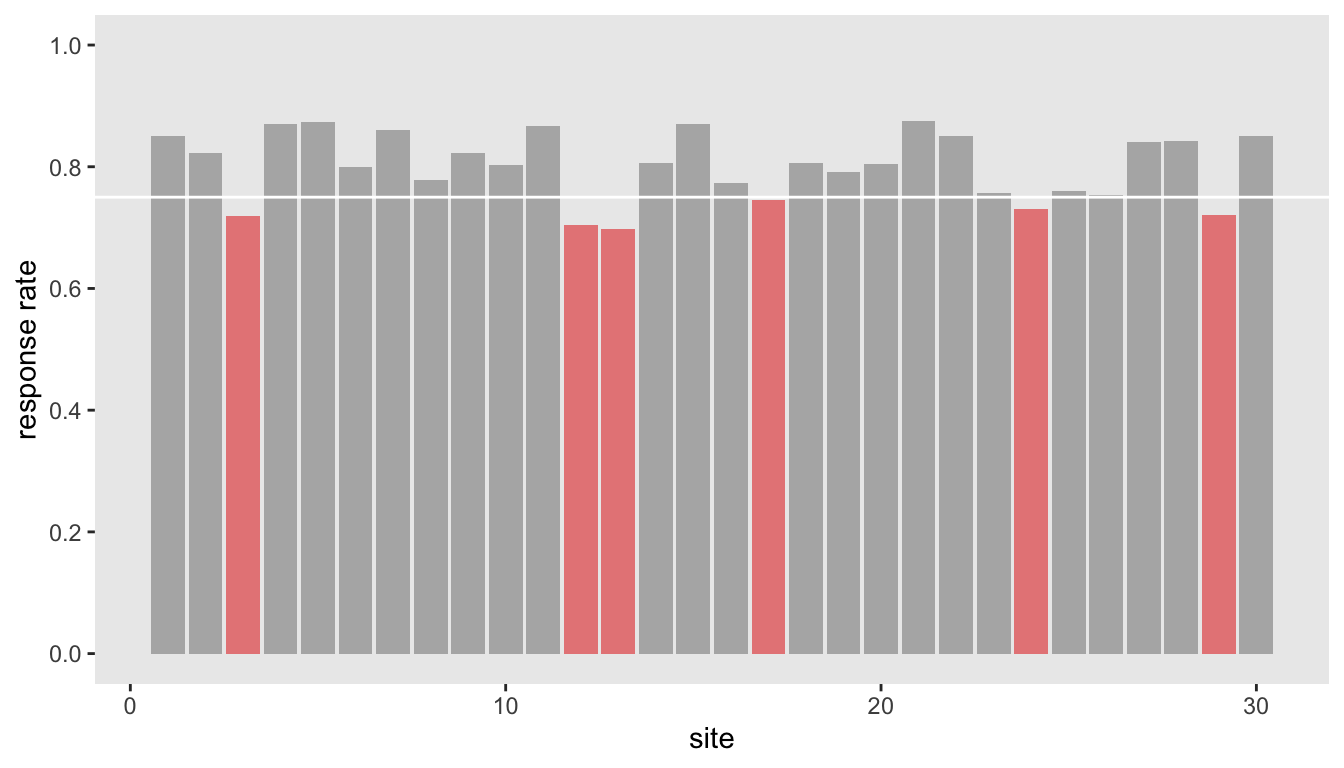
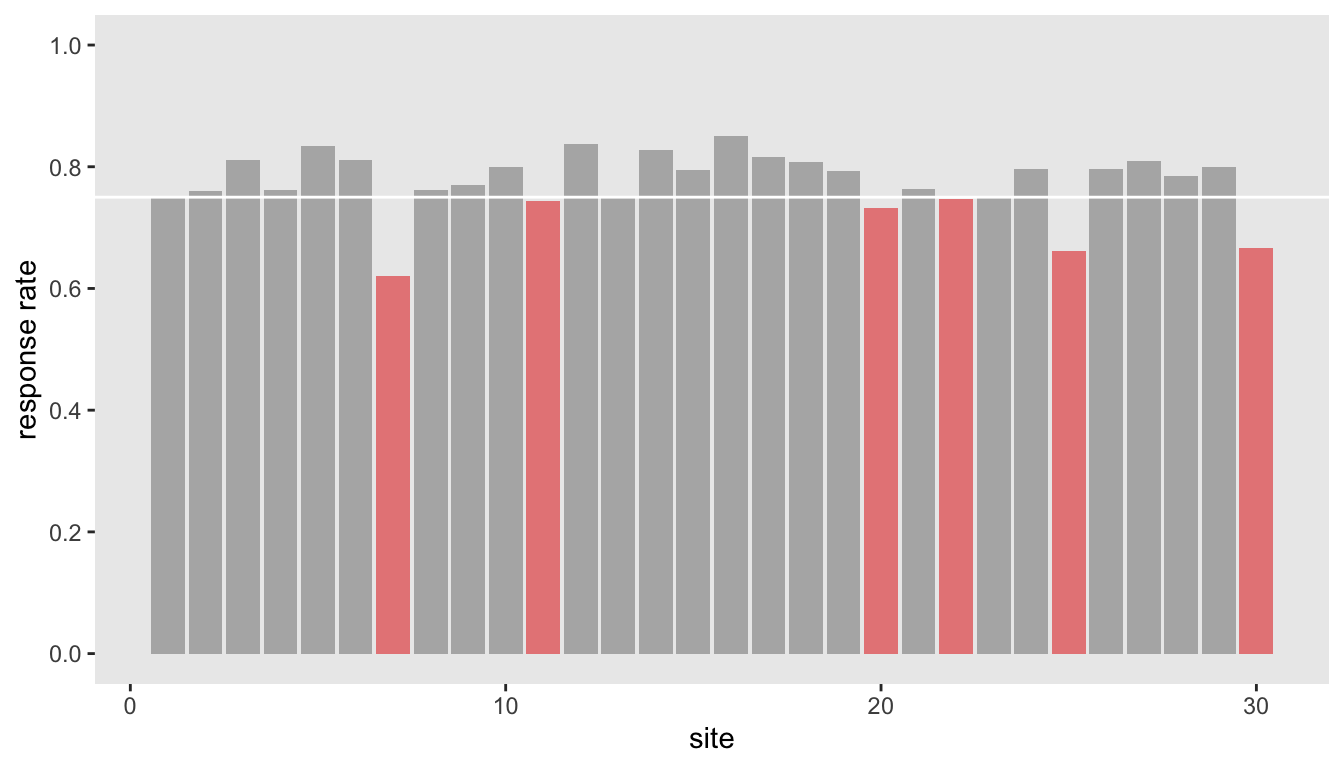
Updating seed

Changed region(s): [[0.625, 0.1562, 0.9688, 0.875], [0.0938, 0.1562, 0.5938, 0.875]]

diff --git a/content/post/2022-01-18-including-uncertainty-when-comparing-response-rates-across-clusters/index.en.html b/content/post/2022-01-18-including-uncertainty-when-comparing-response-rates-across-clusters/index.en.html
@@ -42,12 +42,12 @@ dd &lt;- genData(30, def, id = &quot;site&quot;)</code></pre>
 <pre class="r"><code>fit1 &lt;- glm(cbind(y, n - y) ~ 1, data = dd, family = &quot;binomial&quot;)
 
 tbl_regression(fit1, intercept = TRUE)</code></pre>
-<div id="wzasyxmhfn" style="overflow-x:auto;overflow-y:auto;width:auto;height:auto;">
+<div id="adttiijsio" style="overflow-x:auto;overflow-y:auto;width:auto;height:auto;">
 <style>html {
   font-family: -apple-system, BlinkMacSystemFont, 'Segoe UI', Roboto, Oxygen, Ubuntu, Cantarell, 'Helvetica Neue', 'Fira Sans', 'Droid Sans', Arial, sans-serif;
 }
 
-#wzasyxmhfn .gt_table {
+#adttiijsio .gt_table {
   display: table;
   border-collapse: collapse;
   margin-left: auto;
@@ -72,7 +72,7 @@ tbl_regression(fit1, intercept = TRUE)</code></pre>
   border-left-color: #D3D3D3;
 }
 
-#wzasyxmhfn .gt_heading {
+#adttiijsio .gt_heading {
   background-color: #FFFFFF;
   text-align: center;
   border-bottom-color: #FFFFFF;
@@ -84,7 +84,7 @@ tbl_regression(fit1, intercept = TRUE)</code></pre>
   border-right-color: #D3D3D3;
 }
 
-#wzasyxmhfn .gt_title {
+#adttiijsio .gt_title {
   color: #333333;
   font-size: 125%;
   font-weight: initial;
@@ -94,7 +94,7 @@ tbl_regression(fit1, intercept = TRUE)</code></pre>
   border-bottom-width: 0;
 }
 
-#wzasyxmhfn .gt_subtitle {
+#adttiijsio .gt_subtitle {
   color: #333333;
   font-size: 85%;
   font-weight: initial;
@@ -104,13 +104,13 @@ tbl_regression(fit1, intercept = TRUE)</code></pre>
   border-top-width: 0;
 }
 
-#wzasyxmhfn .gt_bottom_border {
+#adttiijsio .gt_bottom_border {
   border-bottom-style: solid;
   border-bottom-width: 2px;
   border-bottom-color: #D3D3D3;
 }
 
-#wzasyxmhfn .gt_col_headings {
+#adttiijsio .gt_col_headings {
   border-top-style: solid;
   border-top-width: 2px;
   border-top-color: #D3D3D3;
@@ -125,7 +125,7 @@ tbl_regression(fit1, intercept = TRUE)</code></pre>
   border-right-color: #D3D3D3;
 }
 
-#wzasyxmhfn .gt_col_heading {
+#adttiijsio .gt_col_heading {
   color: #333333;
   background-color: #FFFFFF;
   font-size: 100%;
@@ -145,7 +145,7 @@ tbl_regression(fit1, intercept = TRUE)</code></pre>
   overflow-x: hidden;
 }
 
-#wzasyxmhfn .gt_column_spanner_outer {
+#adttiijsio .gt_column_spanner_outer {
   color: #333333;
   background-color: #FFFFFF;
   font-size: 100%;
@@ -157,15 +157,15 @@ tbl_regression(fit1, intercept = TRUE)</code></pre>
   padding-right: 4px;
 }
 
-#wzasyxmhfn .gt_column_spanner_outer:first-child {
+#adttiijsio .gt_column_spanner_outer:first-child {
   padding-left: 0;
 }
 
-#wzasyxmhfn .gt_column_spanner_outer:last-child {
+#adttiijsio .gt_column_spanner_outer:last-child {
   padding-right: 0;
 }
 
-#wzasyxmhfn .gt_column_spanner {
+#adttiijsio .gt_column_spanner {
   border-bottom-style: solid;
   border-bottom-width: 2px;
   border-bottom-color: #D3D3D3;
@@ -177,7 +177,7 @@ tbl_regression(fit1, intercept = TRUE)</code></pre>
   width: 100%;
 }
 
-#wzasyxmhfn .gt_group_heading {
+#adttiijsio .gt_group_heading {
   padding: 8px;
   color: #333333;
   background-color: #FFFFFF;
@@ -199,7 +199,7 @@ tbl_regression(fit1, intercept = TRUE)</code></pre>
   vertical-align: middle;
 }
 
-#wzasyxmhfn .gt_empty_group_heading {
+#adttiijsio .gt_empty_group_heading {
   padding: 0.5px;
   color: #333333;
   background-color: #FFFFFF;
@@ -214,15 +214,15 @@ tbl_regression(fit1, intercept = TRUE)</code></pre>
   vertical-align: middle;
 }
 
-#wzasyxmhfn .gt_from_md > :first-child {
+#adttiijsio .gt_from_md > :first-child {
   margin-top: 0;
 }
 
-#wzasyxmhfn .gt_from_md > :last-child {
+#adttiijsio .gt_from_md > :last-child {
   margin-bottom: 0;
 }
 
-#wzasyxmhfn .gt_row {
+#adttiijsio .gt_row {
   padding-top: 8px;
   padding-bottom: 8px;
   padding-left: 5px;
@@ -241,7 +241,7 @@ tbl_regression(fit1, intercept = TRUE)</code></pre>
   overflow-x: hidden;
 }
 
-#wzasyxmhfn .gt_stub {
+#adttiijsio .gt_stub {
   color: #333333;
   background-color: #FFFFFF;
   font-size: 100%;
@@ -253,7 +253,7 @@ tbl_regression(fit1, intercept = TRUE)</code></pre>
   padding-left: 12px;
 }
 
-#wzasyxmhfn .gt_summary_row {
+#adttiijsio .gt_summary_row {
   color: #333333;
   background-color: #FFFFFF;
   text-transform: inherit;
@@ -263,7 +263,7 @@ tbl_regression(fit1, intercept = TRUE)</code></pre>
   padding-right: 5px;
 }
 
-#wzasyxmhfn .gt_first_summary_row {
+#adttiijsio .gt_first_summary_row {
   padding-top: 8px;
   padding-bottom: 8px;
   padding-left: 5px;
@@ -273,7 +273,7 @@ tbl_regression(fit1, intercept = TRUE)</code></pre>
   border-top-color: #D3D3D3;
 }
 
-#wzasyxmhfn .gt_grand_summary_row {
+#adttiijsio .gt_grand_summary_row {
   color: #333333;
   background-color: #FFFFFF;
   text-transform: inherit;
@@ -283,7 +283,7 @@ tbl_regression(fit1, intercept = TRUE)</code></pre>
   padding-right: 5px;
 }
 
-#wzasyxmhfn .gt_first_grand_summary_row {
+#adttiijsio .gt_first_grand_summary_row {
   padding-top: 8px;
   padding-bottom: 8px;
   padding-left: 5px;
@@ -293,11 +293,11 @@ tbl_regression(fit1, intercept = TRUE)</code></pre>
   border-top-color: #D3D3D3;
 }
 
-#wzasyxmhfn .gt_striped {
+#adttiijsio .gt_striped {
   background-color: rgba(128, 128, 128, 0.05);
 }
 
-#wzasyxmhfn .gt_table_body {
+#adttiijsio .gt_table_body {
   border-top-style: solid;
   border-top-width: 2px;
   border-top-color: #D3D3D3;
@@ -306,7 +306,7 @@ tbl_regression(fit1, intercept = TRUE)</code></pre>
   border-bottom-color: #D3D3D3;
 }
 
-#wzasyxmhfn .gt_footnotes {
+#adttiijsio .gt_footnotes {
   color: #333333;
   background-color: #FFFFFF;
   border-bottom-style: none;
@@ -320,13 +320,13 @@ tbl_regression(fit1, intercept = TRUE)</code></pre>
   border-right-color: #D3D3D3;
 }
 
-#wzasyxmhfn .gt_footnote {
+#adttiijsio .gt_footnote {
   margin: 0px;
   font-size: 90%;
   padding: 4px;
 }
 
-#wzasyxmhfn .gt_sourcenotes {
+#adttiijsio .gt_sourcenotes {
   color: #333333;
   background-color: #FFFFFF;
   border-bottom-style: none;
@@ -340,41 +340,41 @@ tbl_regression(fit1, intercept = TRUE)</code></pre>
   border-right-color: #D3D3D3;
 }
 
-#wzasyxmhfn .gt_sourcenote {
+#adttiijsio .gt_sourcenote {
   font-size: 90%;
   padding: 4px;
 }
 
-#wzasyxmhfn .gt_left {
+#adttiijsio .gt_left {
   text-align: left;
 }
 
-#wzasyxmhfn .gt_center {
+#adttiijsio .gt_center {
   text-align: center;
 }
 
-#wzasyxmhfn .gt_right {
+#adttiijsio .gt_right {
   text-align: right;
   font-variant-numeric: tabular-nums;
 }
 
-#wzasyxmhfn .gt_font_normal {
+#adttiijsio .gt_font_normal {
   font-weight: normal;
 }
 
-#wzasyxmhfn .gt_font_bold {
+#adttiijsio .gt_font_bold {
   font-weight: bold;
 }
 
-#wzasyxmhfn .gt_font_italic {
+#adttiijsio .gt_font_italic {
   font-style: italic;
 }
 
-#wzasyxmhfn .gt_super {
+#adttiijsio .gt_super {
   font-size: 65%;
 }
 
-#wzasyxmhfn .gt_footnote_marks {
+#adttiijsio .gt_footnote_marks {
   font-style: italic;
   font-weight: normal;
   font-size: 65%;
@@ -392,8 +392,8 @@ tbl_regression(fit1, intercept = TRUE)</code></pre>
   </thead>
   <tbody class="gt_table_body">
     <tr><td class="gt_row gt_left">(Intercept)</td>
-<td class="gt_row gt_center">1.4</td>
-<td class="gt_row gt_center">1.3, 1.5</td>
+<td class="gt_row gt_center">1.3</td>
+<td class="gt_row gt_center">1.2, 1.4</td>
 <td class="gt_row gt_center"><0.001</td></tr>
   </tbody>
   
@@ -417,16 +417,16 @@ tbl_regression(fit1, intercept = TRUE)</code></pre>
 <p><span class="math display">\[p = \frac{1}{1 + e^{(-lodds)}}\]</span></p>
 <pre class="r"><code>lOR &lt;- coef(summary(fit1))[1]
 1/(1+exp(-lOR))</code></pre>
-<pre><code>## [1] 0.8</code></pre>
+<pre><code>## [1] 0.78</code></pre>
 <p>And here is a 95% confidence interval for the estimated probability:</p>
 <pre class="r"><code>ci &lt;- data.table(t(confint(fit1)))
 setnames(ci, c(&quot;l95_lo&quot;, &quot;u95_lo&quot;))
 ci[, .(1/(1+exp(-l95_lo)), 1/(1+exp(-u95_lo)))] </code></pre>
-<pre><code>##      V1   V2
-## 1: 0.78 0.82</code></pre>
+<pre><code>##      V1  V2
+## 1: 0.76 0.8</code></pre>
 <p>For completeness, here is the observed probability:</p>
 <pre class="r"><code>with(dd, sum(y)/sum(n))</code></pre>
-<pre><code>## [1] 0.8</code></pre>
+<pre><code>## [1] 0.78</code></pre>
 </div>
 <div id="site-specific-probabilities" class="section level2">
 <h2>Site-specific probabilities</h2>
@@ -507,8 +507,8 @@ fit &lt;- mod$sample(
 )</code></pre>
 <pre><code>## Running MCMC with 4 parallel chains...
 ## 
-## Chain 1 finished in 0.6 seconds.
-## Chain 2 finished in 0.6 seconds.
+## Chain 1 finished in 0.5 seconds.
+## Chain 2 finished in 0.7 seconds.
 ## Chain 3 finished in 0.6 seconds.
 ## Chain 4 finished in 0.6 seconds.
 ## 
@@ -520,11 +520,11 @@ fit &lt;- mod$sample(
 <pre><code>## # A tibble: 5 × 10
 ##   variable   mean median     sd    mad     q5    q95  rhat ess_bulk ess_tail
 ##   &lt;chr&gt;     &lt;dbl&gt;  &lt;dbl&gt;  &lt;dbl&gt;  &lt;dbl&gt;  &lt;dbl&gt;  &lt;dbl&gt; &lt;dbl&gt;    &lt;dbl&gt;    &lt;dbl&gt;
-## 1 alpha    26.2   25.9   5.90   5.84   17.1   36.5    1.00   11589.   11646.
-## 2 beta      6.84   6.74  1.57   1.54    4.42   9.58   1.00   10767.   12191.
-## 3 mu        0.793  0.793 0.0157 0.0155  0.767  0.818  1.00   19683.   17110.
-## 4 theta[1]  0.824  0.827 0.0450 0.0444  0.746  0.893  1.00   28680.   14184.
-## 5 theta[3]  0.739  0.740 0.0401 0.0400  0.670  0.802  1.00   32542.   14816.</code></pre>
+## 1 alpha    28.1   27.8   6.14   6.13   18.6   38.6    1.00    9710.   10933.
+## 2 beta      8.47   8.37  1.88   1.86    5.59  11.7    1.00    9293.   11024.
+## 3 mu        0.768  0.768 0.0158 0.0158  0.742  0.794  1.00   19019.   16537.
+## 4 theta[1]  0.757  0.758 0.0426 0.0423  0.685  0.824  1.00   24748.   14753.
+## 5 theta[3]  0.797  0.799 0.0385 0.0378  0.730  0.857  1.00   27528.   13528.</code></pre>
 <p>And finally, we can plot the site-specific estimates of <span class="math inline">\(\theta_s\)</span>, showing the median and 95% credible intervals of the posterior distribution. This biggest difference between this plot and the one above based on the <em>generalized linear model</em> is that the medians seem to shrink towards the common median and the credible intervals are narrower. Even the smaller sites have narrower credible intervals, because the estimates are pooling information across the sites.</p>
 <p>In the end, we would draw the same conclusions either way: we have no reason to believe that any sites are under performing.</p>
 <pre class="r"><code>post_array &lt;- fit$draws()
